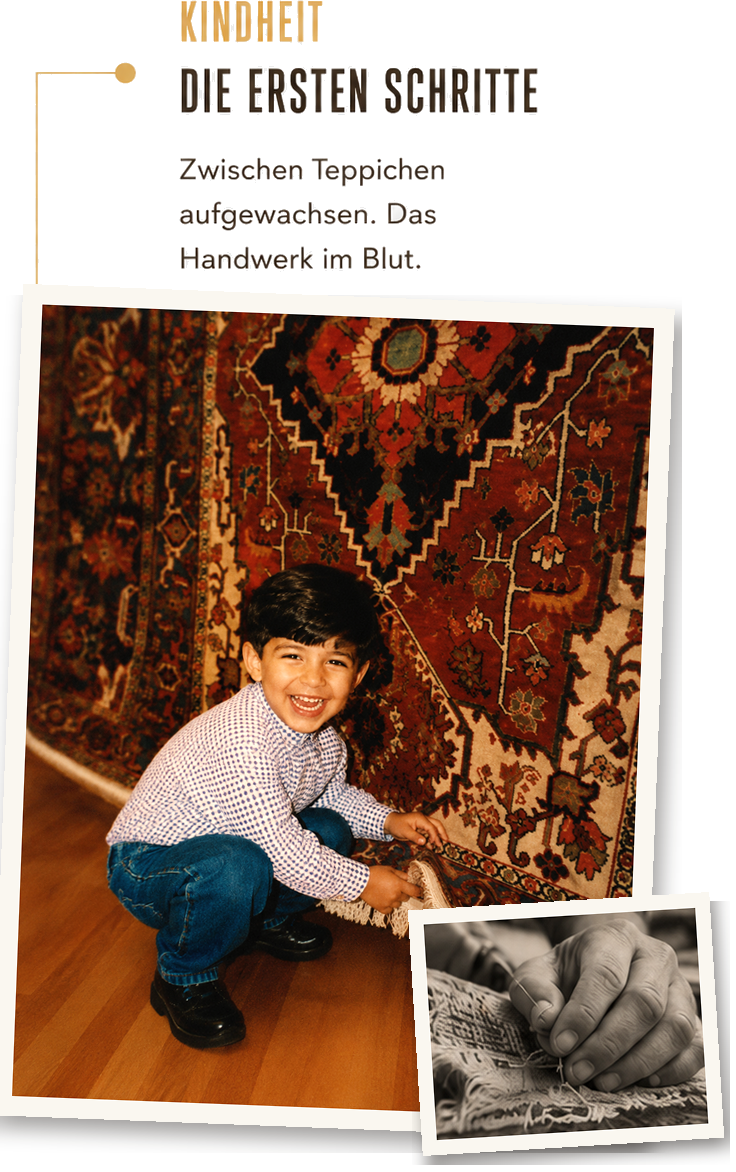
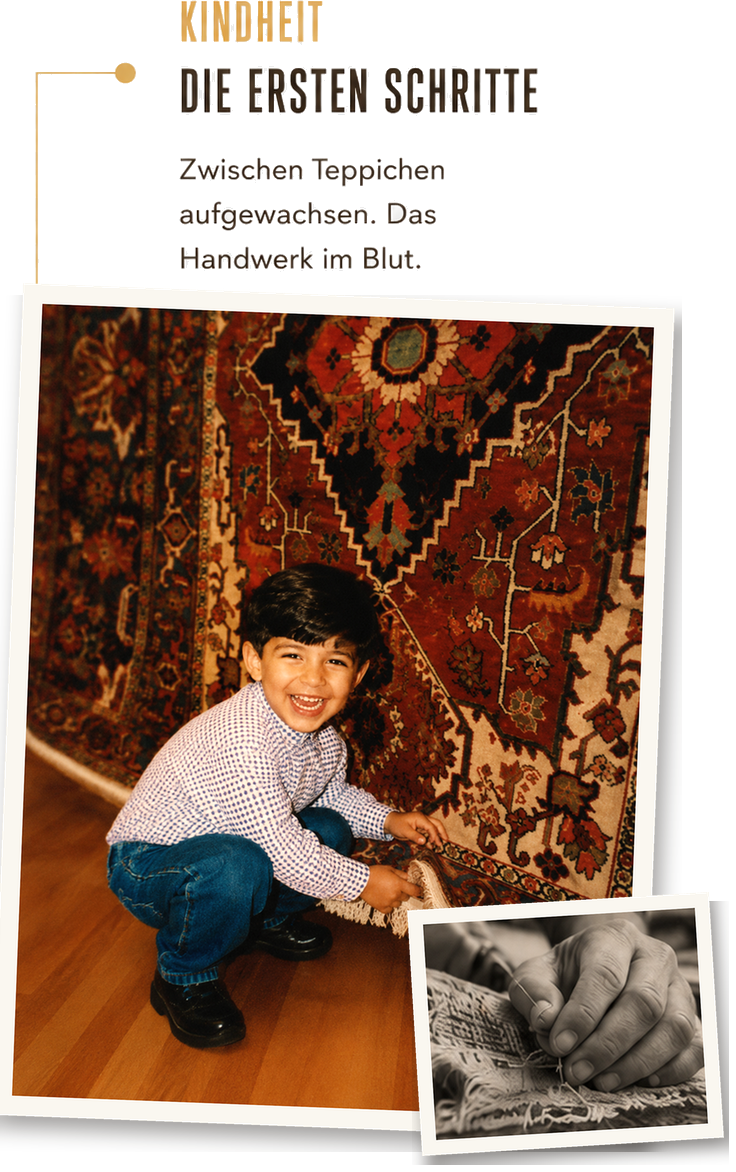
Atelier/Kindheit: Foto-Print-Kanten supersampled (glatt, anti-aliased statt verpixelt); kind v9

diff --git a/index.html b/index.html
@@ -399,7 +399,7 @@
     <div class="ch-stage">
       <img class="ch-el ch-grand" src="assets/img/heritage/grand.png?v=6" alt="1972 – Der Grossvater: der Anfang einer Handwerksgeschichte" loading="lazy" decoding="async">
       <img class="ch-el ch-handwerk" src="assets/img/heritage/handwerk.png" alt="Handwerk seit Generationen – das Atelier Soltani" loading="lazy" decoding="async">
-      <img class="ch-el ch-kind" src="assets/img/heritage/kind.png?v=8" alt="Kindheit – die ersten Schritte: zwischen Teppichen aufgewachsen" loading="lazy" decoding="async">
+      <img class="ch-el ch-kind" src="assets/img/heritage/kind.png?v=9" alt="Kindheit – die ersten Schritte: zwischen Teppichen aufgewachsen" loading="lazy" decoding="async">
       <img class="ch-el ch-fabio" src="assets/img/heritage/fabio.png?v=3" alt="Fabio Soltani in seinem Atelier" loading="lazy" decoding="async">
       <div class="ch-el ch-today">
         <span class="ch-today-eb">Heute</span>
